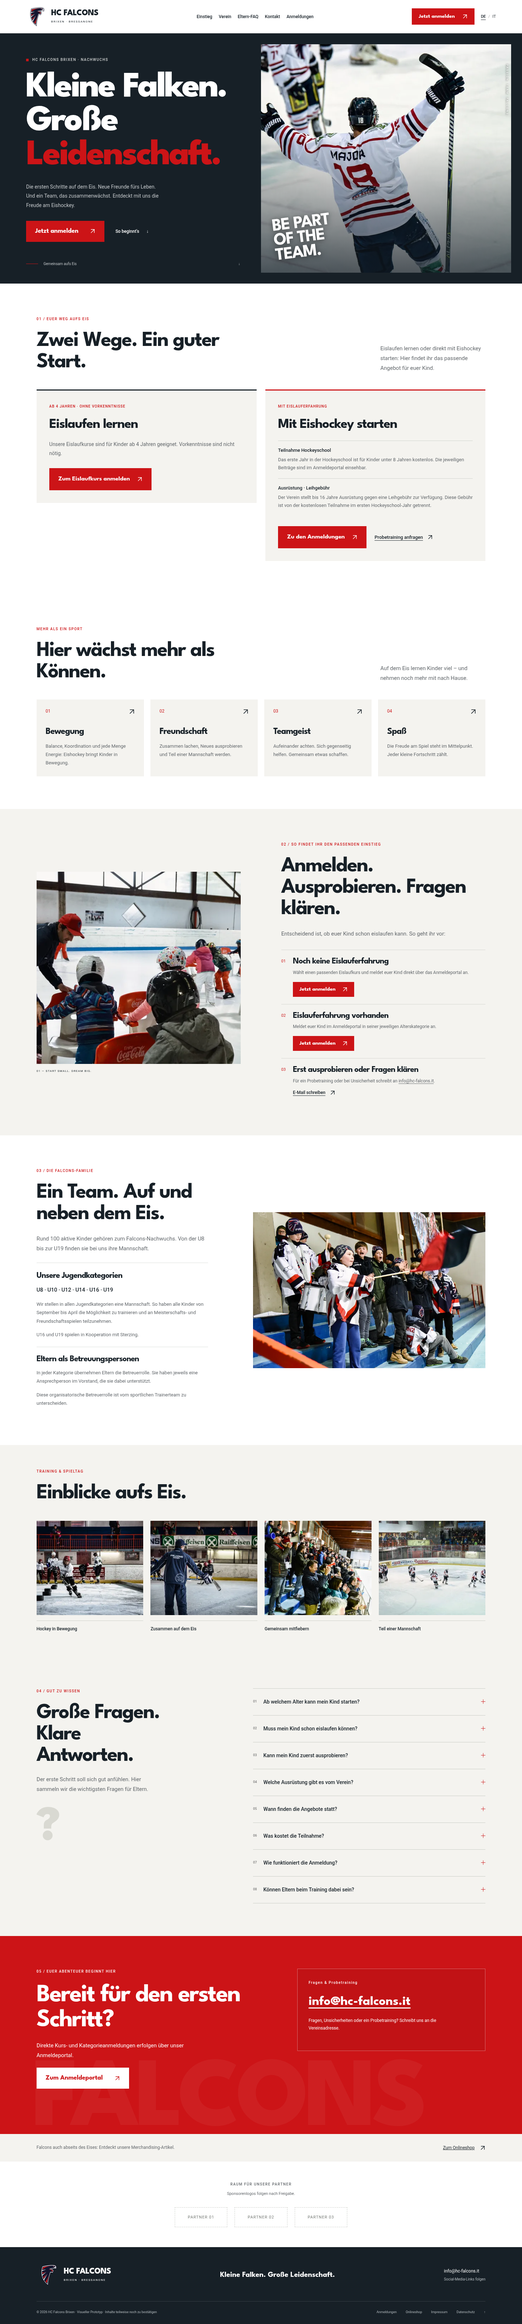
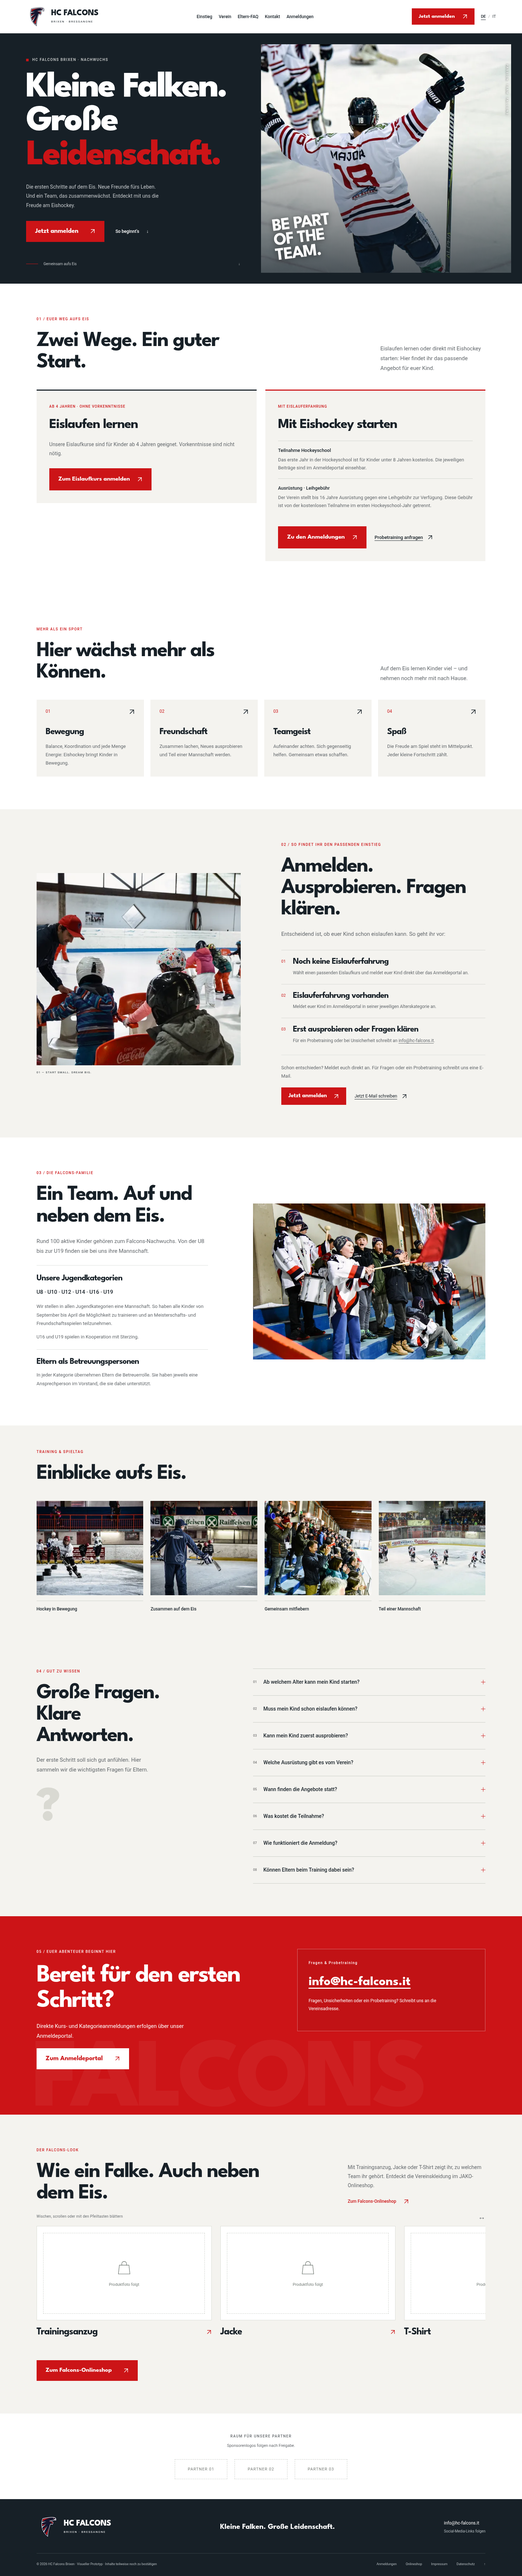
Unify entry actions and prepare linked Falcons shop carousel

diff --git a/src/data/content.ts b/src/data/content.ts
@@ -5,8 +5,8 @@ export const content = {
     "description": "Eishockey entdecken beim HC Falcons Brixen. Ein Einstieg für Kinder und ihre Familien.",
     "registration": "Anmeldungen",
     "shop": "Onlineshop",
-    "shopText": "Falcons auch abseits des Eises: Entdeckt unsere Merchandising-Artikel.",
-    "shopAction": "Zum Onlineshop",
+    "shopText": "Mit Trainingsanzug, Jacke oder T-Shirt zeigt ihr, zu welchem Team ihr gehört. Entdeckt die Vereinskleidung im JAKO-Onlineshop.",
+    "shopAction": "Zum Falcons-Onlineshop",
     "nav": [
       "Einstieg",
       "Verein",
@@ -52,18 +52,15 @@ export const content = {
     "steps": [
       [
         "Noch keine Eislauferfahrung",
-        "Wählt einen passenden Eislaufkurs und meldet euer Kind direkt über das Anmeldeportal an.",
-        "Jetzt anmelden"
+        "Wählt einen passenden Eislaufkurs und meldet euer Kind direkt über das Anmeldeportal an."
       ],
       [
         "Eislauferfahrung vorhanden",
-        "Meldet euer Kind im Anmeldeportal in seiner jeweiligen Alterskategorie an.",
-        "Jetzt anmelden"
+        "Meldet euer Kind im Anmeldeportal in seiner jeweiligen Alterskategorie an."
       ],
       [
         "Erst ausprobieren oder Fragen klären",
-        "Für ein Probetraining oder bei Unsicherheit schreibt an info@hc-falcons.it.",
-        "E-Mail schreiben"
+        "Für ein Probetraining oder bei Unsicherheit schreibt an info@hc-falcons.it."
       ]
     ],
     "familyLabel": "DIE FALCONS-FAMILIE",
@@ -145,13 +142,24 @@ export const content = {
     "cooperation": "U16 und U19 spielen in Kooperation mit Sterzing.",
     "supportTitle": "Eltern als Betreuungspersonen",
     "supportText": "In jeder Kategorie übernehmen Eltern die Betreuerrolle. Sie haben jeweils eine Ansprechperson im Vorstand, die sie dabei unterstützt.",
-    "supportDistinction": "Diese organisatorische Betreuerrolle ist vom sportlichen Trainerteam zu unterscheiden.",
     "contactMailLabel": "Fragen & Probetraining",
     "contactAction": "Zum Anmeldeportal",
     "whyLabel": "MEHR ALS EIN SPORT",
     "whyTitle": "Hier wächst mehr als Können.",
     "whyIntro": "Auf dem Eis lernen Kinder viel – und nehmen noch mehr mit nach Hause.",
-    "categoriesText": "Wir stellen in allen Jugendkategorien eine Mannschaft. So haben alle Kinder von September bis April die Möglichkeit zu trainieren und an Meisterschafts- und Freundschaftsspielen teilzunehmen."
+    "categoriesText": "Wir stellen in allen Jugendkategorien eine Mannschaft. So haben alle Kinder von September bis April die Möglichkeit zu trainieren und an Meisterschafts- und Freundschaftsspielen teilzunehmen.",
+    "entryRegister": "Jetzt anmelden",
+    "entryMail": "Jetzt E-Mail schreiben",
+    "entryActionsHint": "Schon entschieden? Meldet euch direkt an. Für Fragen oder ein Probetraining schreibt uns eine E-Mail.",
+    "shopLabel": "DER FALCONS-LOOK",
+    "shopTitle": "Wie ein Falke. Auch neben dem Eis.",
+    "shopScroll": "Wischen, scrollen oder mit den Pfeiltasten blättern",
+    "shopPhotoPending": "Produktfoto folgt",
+    "shopItems": [
+      "Trainingsanzug",
+      "Jacke",
+      "T-Shirt"
+    ]
   },
   "it": {
     "lang": "it",
@@ -159,8 +167,8 @@ export const content = {
     "description": "Scoprire l’hockey con HC Falcons Brixen. Un primo passo per bambini e famiglie.",
     "registration": "Iscrizioni",
     "shop": "Shop online",
-    "shopText": "Falcons anche fuori dal ghiaccio: scoprite i nostri articoli di merchandising.",
-    "shopAction": "Allo shop online",
+    "shopText": "Con tuta, giacca o T-shirt mostrate di quale squadra fate parte. Scoprite l’abbigliamento del club nello shop online JAKO.",
+    "shopAction": "Allo shop online dei Falcons",
     "nav": [
       "Primi passi",
       "Il club",
@@ -206,18 +214,15 @@ export const content = {
     "steps": [
       [
         "Nessuna esperienza di pattinaggio",
-        "Scegliete un corso di pattinaggio adatto e iscrivete vostro figlio direttamente tramite il portale.",
-        "Iscriviti ora"
+        "Scegliete un corso di pattinaggio adatto e iscrivete vostro figlio direttamente tramite il portale."
       ],
       [
         "Sa già pattinare",
-        "Iscrivete vostro figlio nella rispettiva categoria di età tramite il portale iscrizioni.",
-        "Iscriviti ora"
+        "Iscrivete vostro figlio nella rispettiva categoria di età tramite il portale iscrizioni."
       ],
       [
         "Prima provare o chiarire i dubbi",
-        "Per un allenamento di prova o in caso di dubbi, scrivete a info@hc-falcons.it.",
-        "Scrivi un’e-mail"
+        "Per un allenamento di prova o in caso di dubbi, scrivete a info@hc-falcons.it."
       ]
     ],
     "familyLabel": "LA FAMIGLIA FALCONS",
@@ -299,12 +304,23 @@ export const content = {
     "cooperation": "U16 e U19 in collaborazione con Vipiteno.",
     "supportTitle": "Genitori come accompagnatori",
     "supportText": "In ogni categoria alcuni genitori svolgono il ruolo di accompagnatori. Hanno una persona di riferimento nel direttivo che li sostiene in questo compito.",
-    "supportDistinction": "Questo ruolo di supporto organizzativo è distinto da quello dello staff tecnico degli allenatori.",
     "contactMailLabel": "Domande e allenamento di prova",
     "contactAction": "Al portale iscrizioni",
     "whyLabel": "PIÙ DI UNO SPORT",
     "whyTitle": "Qui si cresce, insieme.",
     "whyIntro": "Sul ghiaccio si impara tanto. E si porta a casa ancora di più.",
-    "categoriesText": "Abbiamo una squadra in tutte le categorie giovanili. Da settembre ad aprile, tutti i bambini hanno così la possibilità di allenarsi e partecipare al campionato e alle partite amichevoli."
+    "categoriesText": "Abbiamo una squadra in tutte le categorie giovanili. Da settembre ad aprile, tutti i bambini hanno così la possibilità di allenarsi e partecipare al campionato e alle partite amichevoli.",
+    "entryRegister": "Iscriviti ora",
+    "entryMail": "Scrivi un’e-mail",
+    "entryActionsHint": "Avete già deciso? Iscrivetevi direttamente. Per domande o un allenamento di prova, scriveteci un’e-mail.",
+    "shopLabel": "IL LOOK DEI FALCONS",
+    "shopTitle": "Un falco. Anche fuori dal ghiaccio.",
+    "shopScroll": "Scorri con un gesto, il mouse o i tasti freccia",
+    "shopPhotoPending": "Foto prodotto in arrivo",
+    "shopItems": [
+      "Tuta",
+      "Giacca",
+      "T-shirt"
+    ]
   }
 };

diff --git a/src/components/styles.css b/src/components/styles.css
@@ -28,3 +28,8 @@
 .why .benefits{grid-template-columns:repeat(4,minmax(0,1fr))}.why .benefits article{min-width:0}.why .benefits h3{overflow-wrap:anywhere}
 @media(max-width:760px){.why .benefits{grid-template-columns:repeat(2,minmax(0,1fr))}.why .benefits h3{font-size:23px}}
 @media(max-width:380px){.why .benefits article{padding:20px 13px}.why .benefits h3{font-size:21px}}
+/* One shared decision after the entry guide; no duplicate step buttons. */
+.entry-actions{border-top:1px solid var(--line);padding-top:23px;margin-top:8px}.entry-actions>p{font-size:13px;color:var(--muted);margin-bottom:20px}.entry-actions>div{display:flex;align-items:center;gap:23px;flex-wrap:wrap}.entry-actions .button{font-size:16px;padding:16px 20px;gap:18px}.entry-mail{display:inline-flex;align-items:center;gap:12px;font-size:12px;text-decoration:underline;text-underline-offset:4px}.entry-mail:hover{color:var(--red)}
+/* Native scroll-snap product preview, without autoplay or client JavaScript. */
+.shop{background:var(--paper)}.shop .section-top{gap:55px;margin-bottom:25px}.shop-intro{max-width:380px}.shop-intro>p{font-size:14px;color:var(--muted)}.shop-intro .text-link{color:var(--red);display:inline-flex}.shop-scroll-hint{display:flex;justify-content:space-between;gap:20px;font-size:10px;letter-spacing:.03em;color:var(--muted);margin-bottom:15px}.shop-scroll-hint>span{font-family:Arial,sans-serif;font-size:20px;line-height:1}.shop-slider{display:flex;gap:24px;overflow-x:auto;overscroll-behavior-x:contain;scroll-snap-type:x mandatory;padding:0 0 19px;margin:0;list-style:none;scrollbar-color:var(--red) #dadcd6;scrollbar-width:thin}.shop-slider:focus-visible{outline:3px solid var(--red);outline-offset:5px}.shop-item{flex:0 0 39%;min-width:0;scroll-snap-align:start}.shop-item>a{display:block}.shop-item>a:focus-visible{outline-offset:-3px}.shop-product-image{height:260px;background:#fff;border:1px solid #dadcd6;display:flex;align-items:center;justify-content:center;overflow:hidden}.shop-product-image>img{display:block;width:100%;height:100%;object-fit:contain;padding:16px}.product-pending{display:flex;flex-direction:column;gap:17px;align-items:center;justify-content:center;color:#747c77;border:1px dashed #c9cdc7;width:calc(100% - 35px);height:calc(100% - 35px)}.product-pending>span{font-size:11px}.shop-item-caption{display:flex;justify-content:space-between;gap:20px;align-items:center;padding:19px 0}.shop-item-caption h3{font-size:27px}.shop-item-caption .arrow-icon{color:var(--red)}.shop-main-link{margin-top:25px;font-size:17px}
+@media(max-width:760px){.entry-actions>div{gap:24px}.shop .section-top{display:block}.shop-intro{max-width:none;margin-top:22px}.shop-item{flex-basis:82%}.shop-slider{gap:16px}.shop-product-image{height:230px}.shop-item-caption h3{font-size:26px}.shop-scroll-hint{font-size:9px;letter-spacing:0}.shop-main-link{font-size:16px;padding:18px 20px;gap:20px}}

diff --git a/src/data/shop.ts b/src/data/shop.ts
@@ -1,0 +1,4 @@
+import type { ImageMetadata } from 'astro';
+// Use verified images from the Falcons JAKO shop only. No model names or prices
+// are inferred. Replace null with a local image import once images are available.
+export const shopImages: (ImageMetadata | null)[] = [null, null, null];

diff --git a/README.md b/README.md
@@ -49,3 +49,11 @@ Zum Prüfen des Pages-Builds: `GITHUB_PAGES=true npm run build`. Für Plesk weit
 Die bestätigten externen URLs werden zentral in `src/data/links.ts` gepflegt. Die Auswahl „Eislaufen lernen“ / „Mit Eishockey starten“ steht direkt hinter dem Hero unter `#angebote`. Hero- und Header-Buttons „Jetzt anmelden“ führen dorthin. Die deutsche Einstiegsbotschaft lautet „Kleine Falken. Große Leidenschaft.“. Kurs- und Kategorieanmeldungen führen ins bestehende Registrix-Portal; Probetraining und Rückfragen an `mailto:info@hc-falcons.it`. Der Shop steht zurückhaltend unterhalb des Kontaktbereichs und im Footer.
 
 Kostenhinweise sind bewusst getrennt: erstes Hockeyschool-Jahr für Kinder unter 8 Jahren kostenlos; Ausrüstungsleihe bis 16 Jahre gegen Gebühr. Für Beträge und aktuelle Kurstermine gilt das Anmeldeportal. Die Werte Bewegung, Freundschaft, Teamgeist und Spaß sind unter „Hier wächst mehr als Können.“ wieder als vier Boxen mit Beschreibung dargestellt. Der separate Saison-/Sommercamp-Block ist entfernt; die bestätigten Saisoninformationen bleiben in den FAQ erhalten. Der Vereinsabschnitt beschreibt den Trainings- und Spielbetrieb aller Jugendkategorien von September bis April.
+
+## Shopvorschau und gemeinsame Einstiegsaktionen
+
+Unter dem praktischen Einstiegsleitfaden stehen genau zwei gemeinsame Aktionen: Anmeldung im Registrix-Portal und E-Mail an den Verein. Die einzelnen Schritte haben keine eigenen Buttons mehr. Der gesonderte Abgrenzungssatz zur Elternbetreuung ist entfernt.
+
+`src/components/Shop.astro` zeigt einen nativen, per Touch, Trackpad und Tastatur bedienbaren Scroll-Snap-Slider mit Shoplink. Kein Autoplay und kein zusätzliches Browser-JavaScript. Die genannten Kategorien Trainingsanzug, Jacke und T-Shirt stammen vom Nutzer; konkrete Modelle, Preise oder Verfügbarkeiten wurden nicht ergänzt.
+
+**Noch offen: echte Produktfotos.** Der Abruf von `https://team.jako.com/de-de/team/falcons/` wird durch den Netzwerkproxy dieser Cloud-Umgebung mit HTTP 403 beim CONNECT blockiert. Die Netzwerkfreigabe für `team.jako.com` wurde als Konfigurationsentwurf gespeichert; dies aktiviert den Zugriff noch nicht. Nach Freigabe ggf. zusätzlich die vom Shop tatsächlich verwendeten Bilddomains prüfen. Alternativ freigegebene Produktbilder im Repository hochladen. Anschließend in `src/data/shop.ts` importieren und die drei `null`-Einträge ersetzen. Bis dahin werden klar beschriftete Fotoplatzhalter gezeigt. Keine Produktbilder wurden erfunden oder aus anderen Shops übernommen.
